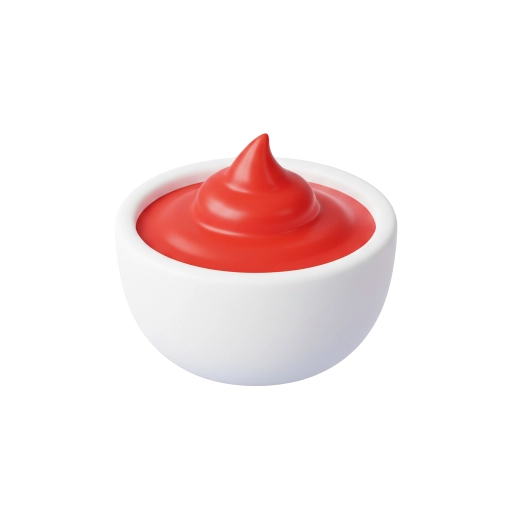
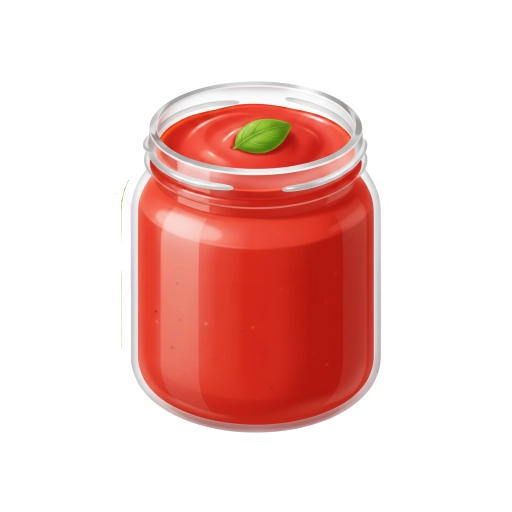
Замена арта и создание "сочной" анимации слияния

Changed region(s): [[0.25, 0.1562, 0.7812, 0.8438]]

diff --git a/src/scenes/GameScene.js b/src/scenes/GameScene.js
@@ -77,7 +77,9 @@ export default class GameScene extends Phaser.Scene {
         }
     }
 
+    // handleMerge теперь управляет анимацией
     handleMerge(draggedObject, targetObject) {
+        // 1. Сразу проигрываем звук и выполняем всю логику
         this.sound.play('merge_sfx');
         const type = draggedObject.getData('type');
         const recipe = RECIPES[type];
@@ -105,19 +107,60 @@ export default class GameScene extends Phaser.Scene {
 
         this.events.emit('updateScore', this.score);
         this.events.emit('updateCoins', dataManager.getCoins());
-    
+
         const isNewUnlock = dataManager.unlockIngredient(recipe.mergeTo);
         if (isNewUnlock) {
             console.log('NEW UNLOCK:', recipe.mergeTo);
+            // TODO: Показать красивую анимацию "Новый рецепт открыт!"
         }
 
+        // 2. Очищаем логическую сетку
         this.grid[draggedObject.getData('gridY')][draggedObject.getData('gridX')] = TILE_TYPES.EMPTY;
         this.grid[targetGridY][targetGridX] = TILE_TYPES.EMPTY;
-        draggedObject.destroy();
-        targetObject.destroy();
 
-        this.createIngredient(targetGridX, targetGridY, recipe.mergeTo);
-        this.checkAndSpawn(2);
+        const targetPixelX = targetObject.x;
+        const targetPixelY = targetObject.y;
+
+        // 3. Запускаем анимацию исчезновения
+        this.tweens.add({
+            targets: [draggedObject, targetObject],
+            scale: 0,
+            alpha: 0,
+            duration: 200,
+            ease: 'Power2',
+            onComplete: () => {
+                draggedObject.destroy();
+                targetObject.destroy();
+
+                // 4. Создаем "пуф" эффект (Новый, правильный способ для Phaser 3.60+)
+                const emitter = this.add.particles(targetPixelX, targetPixelY, 'particle', {
+                    speed: { min: 50, max: 150 },
+                    angle: { min: 0, max: 360 },
+                    scale: { start: 0.8, end: 0 },
+                    blendMode: 'ADD',
+                    lifespan: 300,
+                    tint: 0xffff00,
+                    emitting: false // Важно: мы управляем взрывом сами
+                });
+                emitter.explode(16); // Взрываем 16 частиц
+
+                // 5. Создаем и анимируем появление нового предмета
+                const newIngredient = this.createIngredient(targetGridX, targetGridY, recipe.mergeTo);
+                const finalScale = newIngredient.scale;
+                newIngredient.setScale(0);
+
+                this.tweens.add({
+                    targets: newIngredient,
+                    scale: finalScale,
+                    duration: 300,
+                    ease: 'Back.easeOut', // Эффект "пружинки"
+                    onComplete: () => {
+                        // 6. После завершения всей анимации, спауним новые предметы
+                        this.checkAndSpawn(2);
+                    }
+                });
+            }
+        });
     }
 
     spawnInitialIngredients() {

diff --git a/src/gameConfig.js b/src/gameConfig.js
@@ -2,24 +2,35 @@
 
 export const TILE_TYPES = {
     EMPTY: 0,
+    // Яичная цепочка (5 уровней)
     EGG: 'egg',
     FRIED_EGG: 'fried_egg',
     OMELLETE: 'omelette',
+    SHAKSHUKA: 'shakshuka',
+    BREAKFAST_PLATTER: 'breakfast_platter',
+    // Томатная цепочка (5 уровней)
     TOMATO: 'tomato',
     DICED_TOMATOES: 'diced_tomatoes',
-    TOMATO_SAUCE: 'tomato_sauce'
+    TOMATO_SAUCE: 'tomato_sauce',
+    TOMATO_SOUP: 'tomato_soup',
+    GAZPACHO: 'gazpacho'
 };
 
 export const RECIPES = {
-    [TILE_TYPES.EGG]: { mergeTo: TILE_TYPES.FRIED_EGG, score: 10, coins: 1 },
-    [TILE_TYPES.FRIED_EGG]: { mergeTo: TILE_TYPES.OMELLETE, score: 25, coins: 3 },
-    [TILE_TYPES.TOMATO]: { mergeTo: TILE_TYPES.DICED_TOMATOES, score: 10, coins: 1 },
-    [TILE_TYPES.DICED_TOMATOES]: { mergeTo: TILE_TYPES.TOMATO_SAUCE, score: 25, coins: 3 }
+    [TILE_TYPES.EGG]:              { mergeTo: TILE_TYPES.FRIED_EGG,        score: 10,  coins: 1 },
+    [TILE_TYPES.FRIED_EGG]:        { mergeTo: TILE_TYPES.OMELLETE,         score: 25,  coins: 3 },
+    [TILE_TYPES.OMELLETE]:         { mergeTo: TILE_TYPES.SHAKSHUKA,        score: 75,  coins: 8 },
+    [TILE_TYPES.SHAKSHUKA]:        { mergeTo: TILE_TYPES.BREAKFAST_PLATTER,score: 200, coins: 20 },
+
+    [TILE_TYPES.TOMATO]:           { mergeTo: TILE_TYPES.DICED_TOMATOES,   score: 10,  coins: 1 },
+    [TILE_TYPES.DICED_TOMATOES]:   { mergeTo: TILE_TYPES.TOMATO_SAUCE,     score: 25,  coins: 3 },
+    [TILE_TYPES.TOMATO_SAUCE]:     { mergeTo: TILE_TYPES.TOMATO_SOUP,      score: 75,  coins: 8 },
+    [TILE_TYPES.TOMATO_SOUP]:      { mergeTo: TILE_TYPES.GAZPACHO,         score: 200, coins: 20 }
+    // Предметы последнего уровня (BREAKFAST_PLATTER, GAZPACHO) не имеют рецептов
 };
 
 export const SPAWNABLE_INGREDIENTS = [ TILE_TYPES.EGG, TILE_TYPES.TOMATO ];
 
-// --- НОВЫЙ БЛОК: ОПИСАНИЕ ГАДЖЕТОВ ---
 export const GADGETS = {
     'knife': {
         id: 'knife',

diff --git a/src/scenes/PreloaderScene.js b/src/scenes/PreloaderScene.js
@@ -10,17 +10,24 @@ export default class PreloaderScene extends Phaser.Scene {
 
     preload() {
         console.log('Preloading assets...');
-        // Загружаем изображения ингредиентов
+        
+        // Яичная цепочка
         this.load.image('egg', 'assets/egg.png');
         this.load.image('fried_egg', 'assets/fried_egg.png');
         this.load.image('omelette', 'assets/omelette.png');
+        this.load.image('shakshuka', 'assets/shakshuka.png');
+        this.load.image('breakfast_platter', 'assets/breakfast_platter.png');
+
+        // Томатная цепочка
         this.load.image('tomato', 'assets/tomato.png');
         this.load.image('diced_tomatoes', 'assets/diced_tomatoes.png');
         this.load.image('tomato_sauce', 'assets/tomato_sauce.png');
-        // TODO: Добавить сюда остальные изображения
+        this.load.image('tomato_soup', 'assets/tomato_soup.png');
+        this.load.image('gazpacho', 'assets/gazpacho.png');
 
         // Загружаем изображения UI
         this.load.image('button', 'assets/ui_button_default.png');
+        this.load.image('particle', 'assets/particle.png');
 
         // Загружаем звуки
         this.load.audio('merge_sfx', 'assets/merge.mp3');
